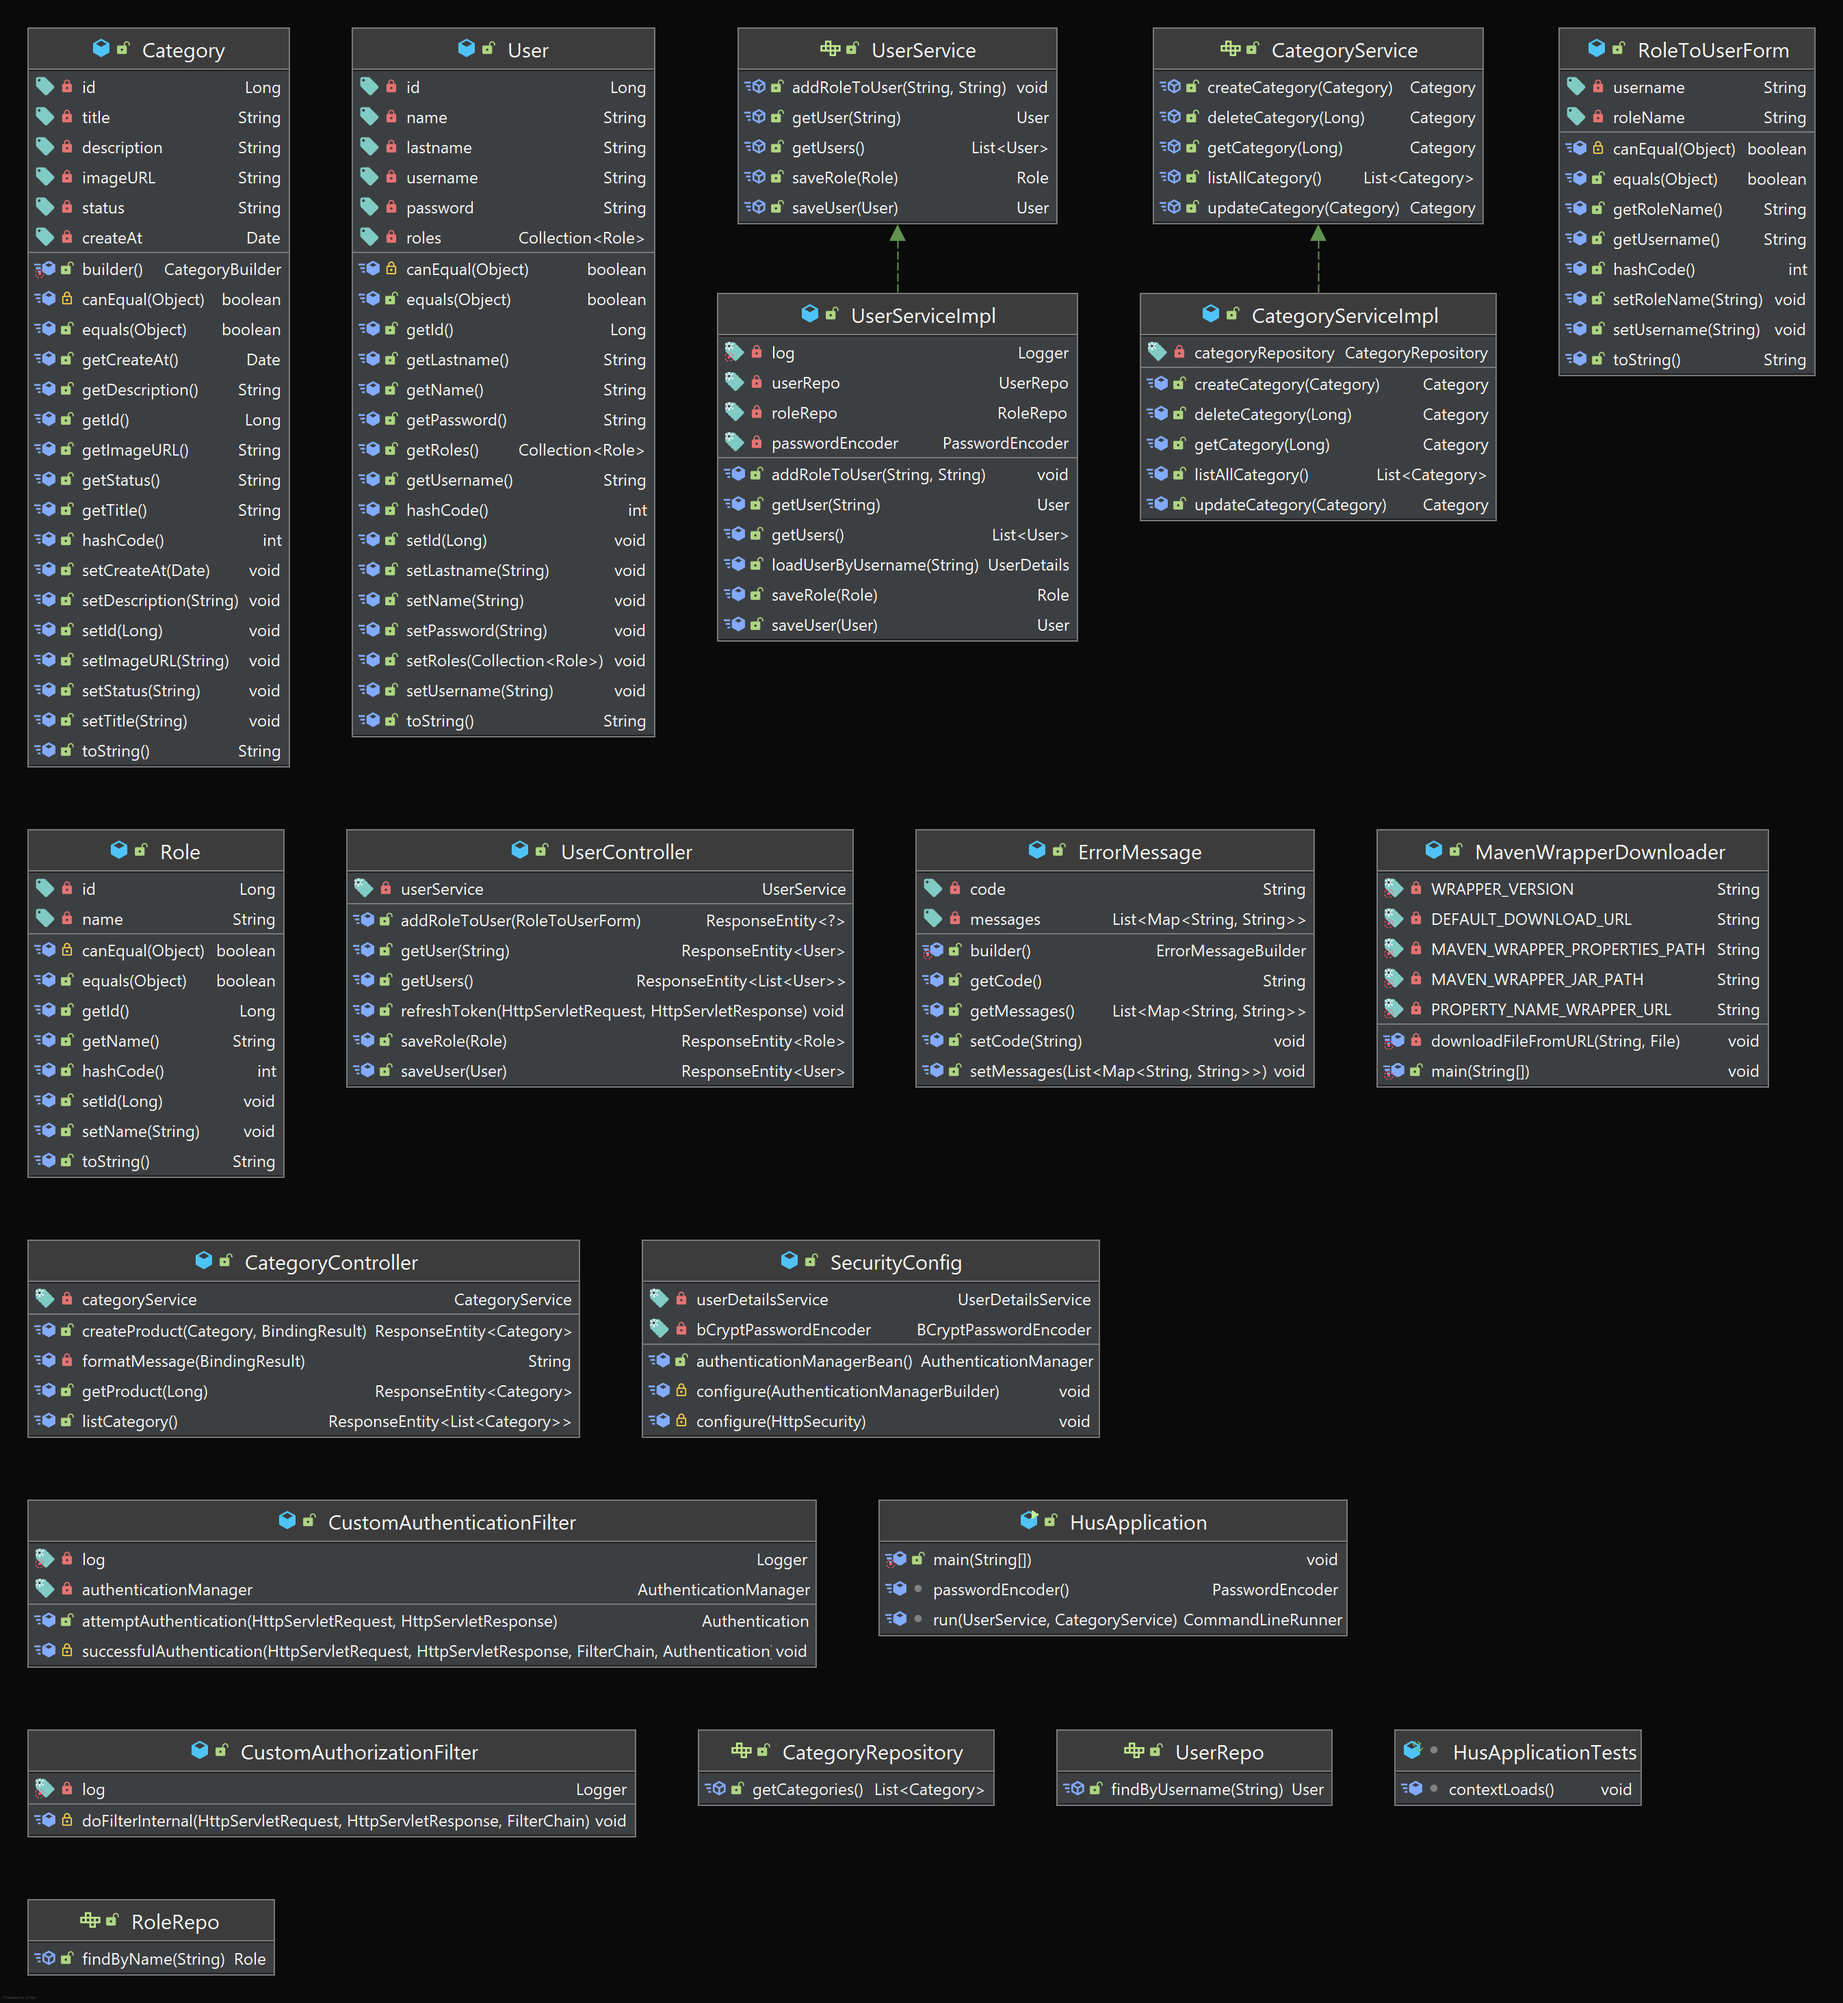
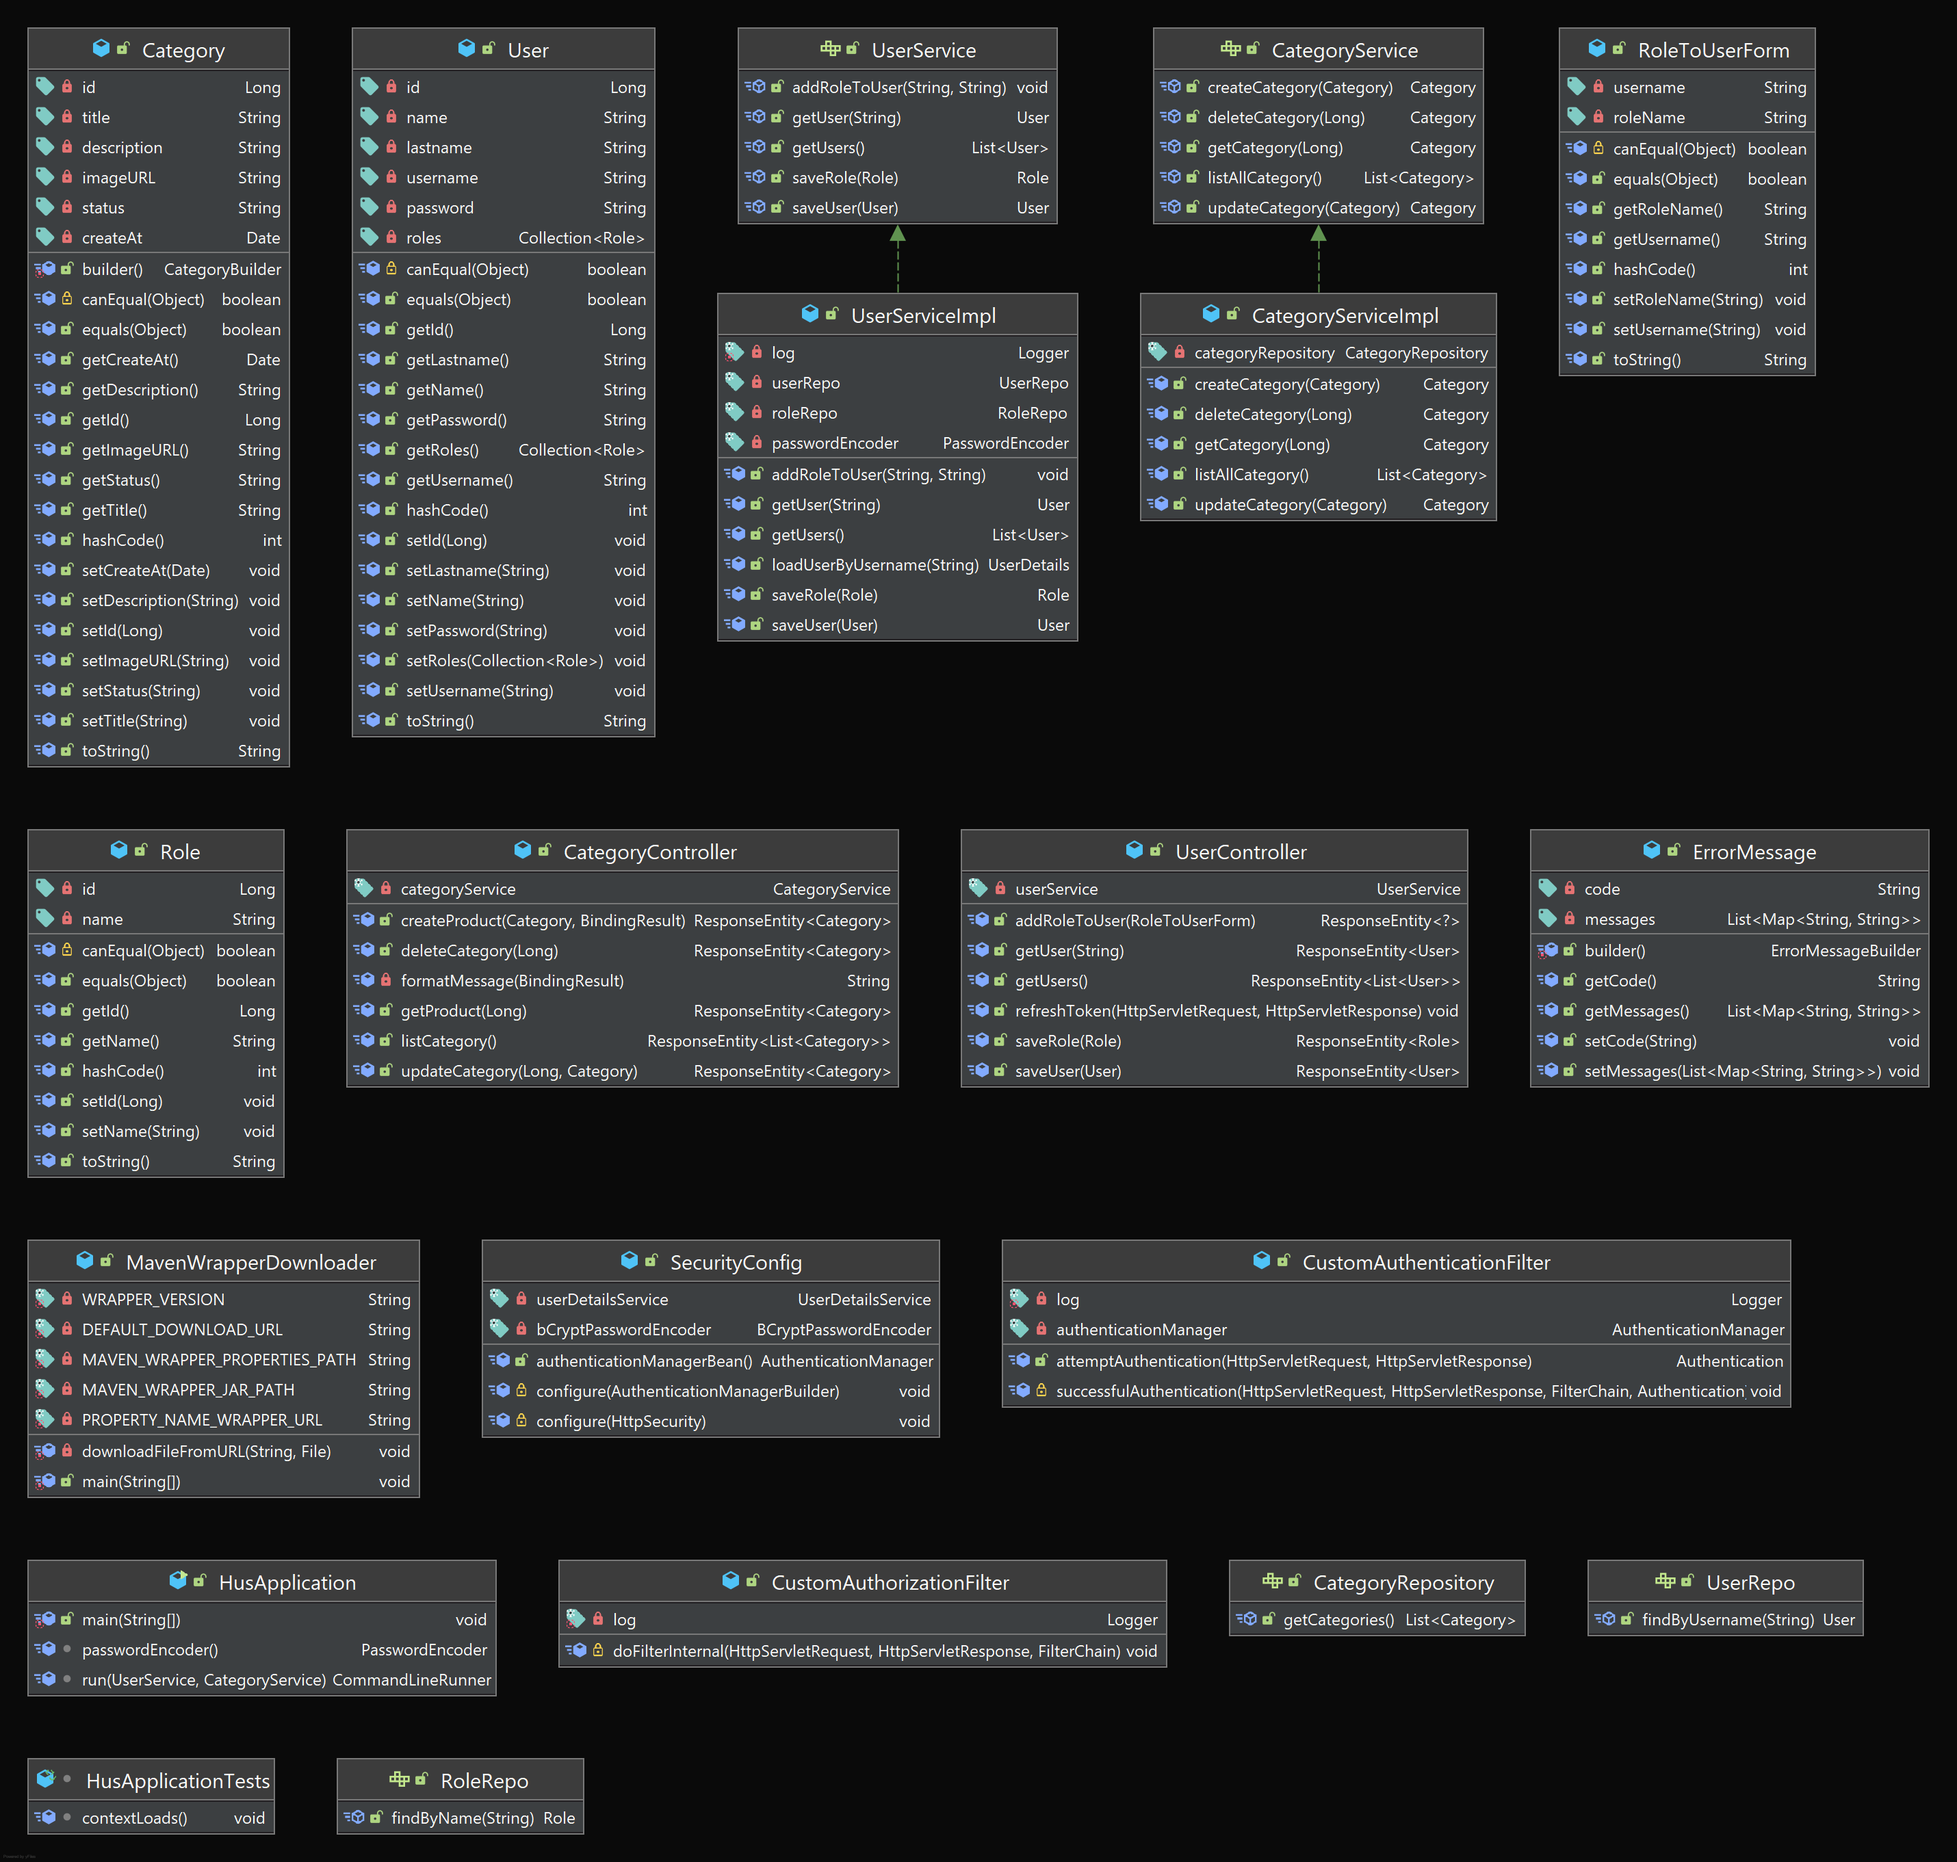
refactor: rename a method

diff --git a/src/main/java/io/hus/controller/categoryController/CategoryController.java b/src/main/java/io/hus/controller/categoryController/CategoryController.java
@@ -38,7 +38,7 @@ public class CategoryController {
     // TODO: Pasar la validacion de status a la query
     @Operation(summary = "Find the specified category")
     @GetMapping(value = "/open/category/{id}")
-    public ResponseEntity<Category> getProduct(@PathVariable("id") Long id) {
+    public ResponseEntity<Category> getCategory(@PathVariable("id") Long id) {
         Category category =  categoryService.getCategory(id);
         if (null==category || Objects.equals(category.getStatus(), "DELETED")){
             return ResponseEntity.notFound().build();
@@ -48,7 +48,7 @@ public class CategoryController {
 
     @Operation(summary = "Create a new category")
     @PostMapping("/category/save")
-    public ResponseEntity<Category> createProduct(@Valid @RequestBody Category category,
+    public ResponseEntity<Category> createCategory(@Valid @RequestBody Category category,
                                            BindingResult result){
         if (result.hasErrors()){
             throw new ResponseStatusException(HttpStatus.BAD_REQUEST, this.formatMessage(result));
